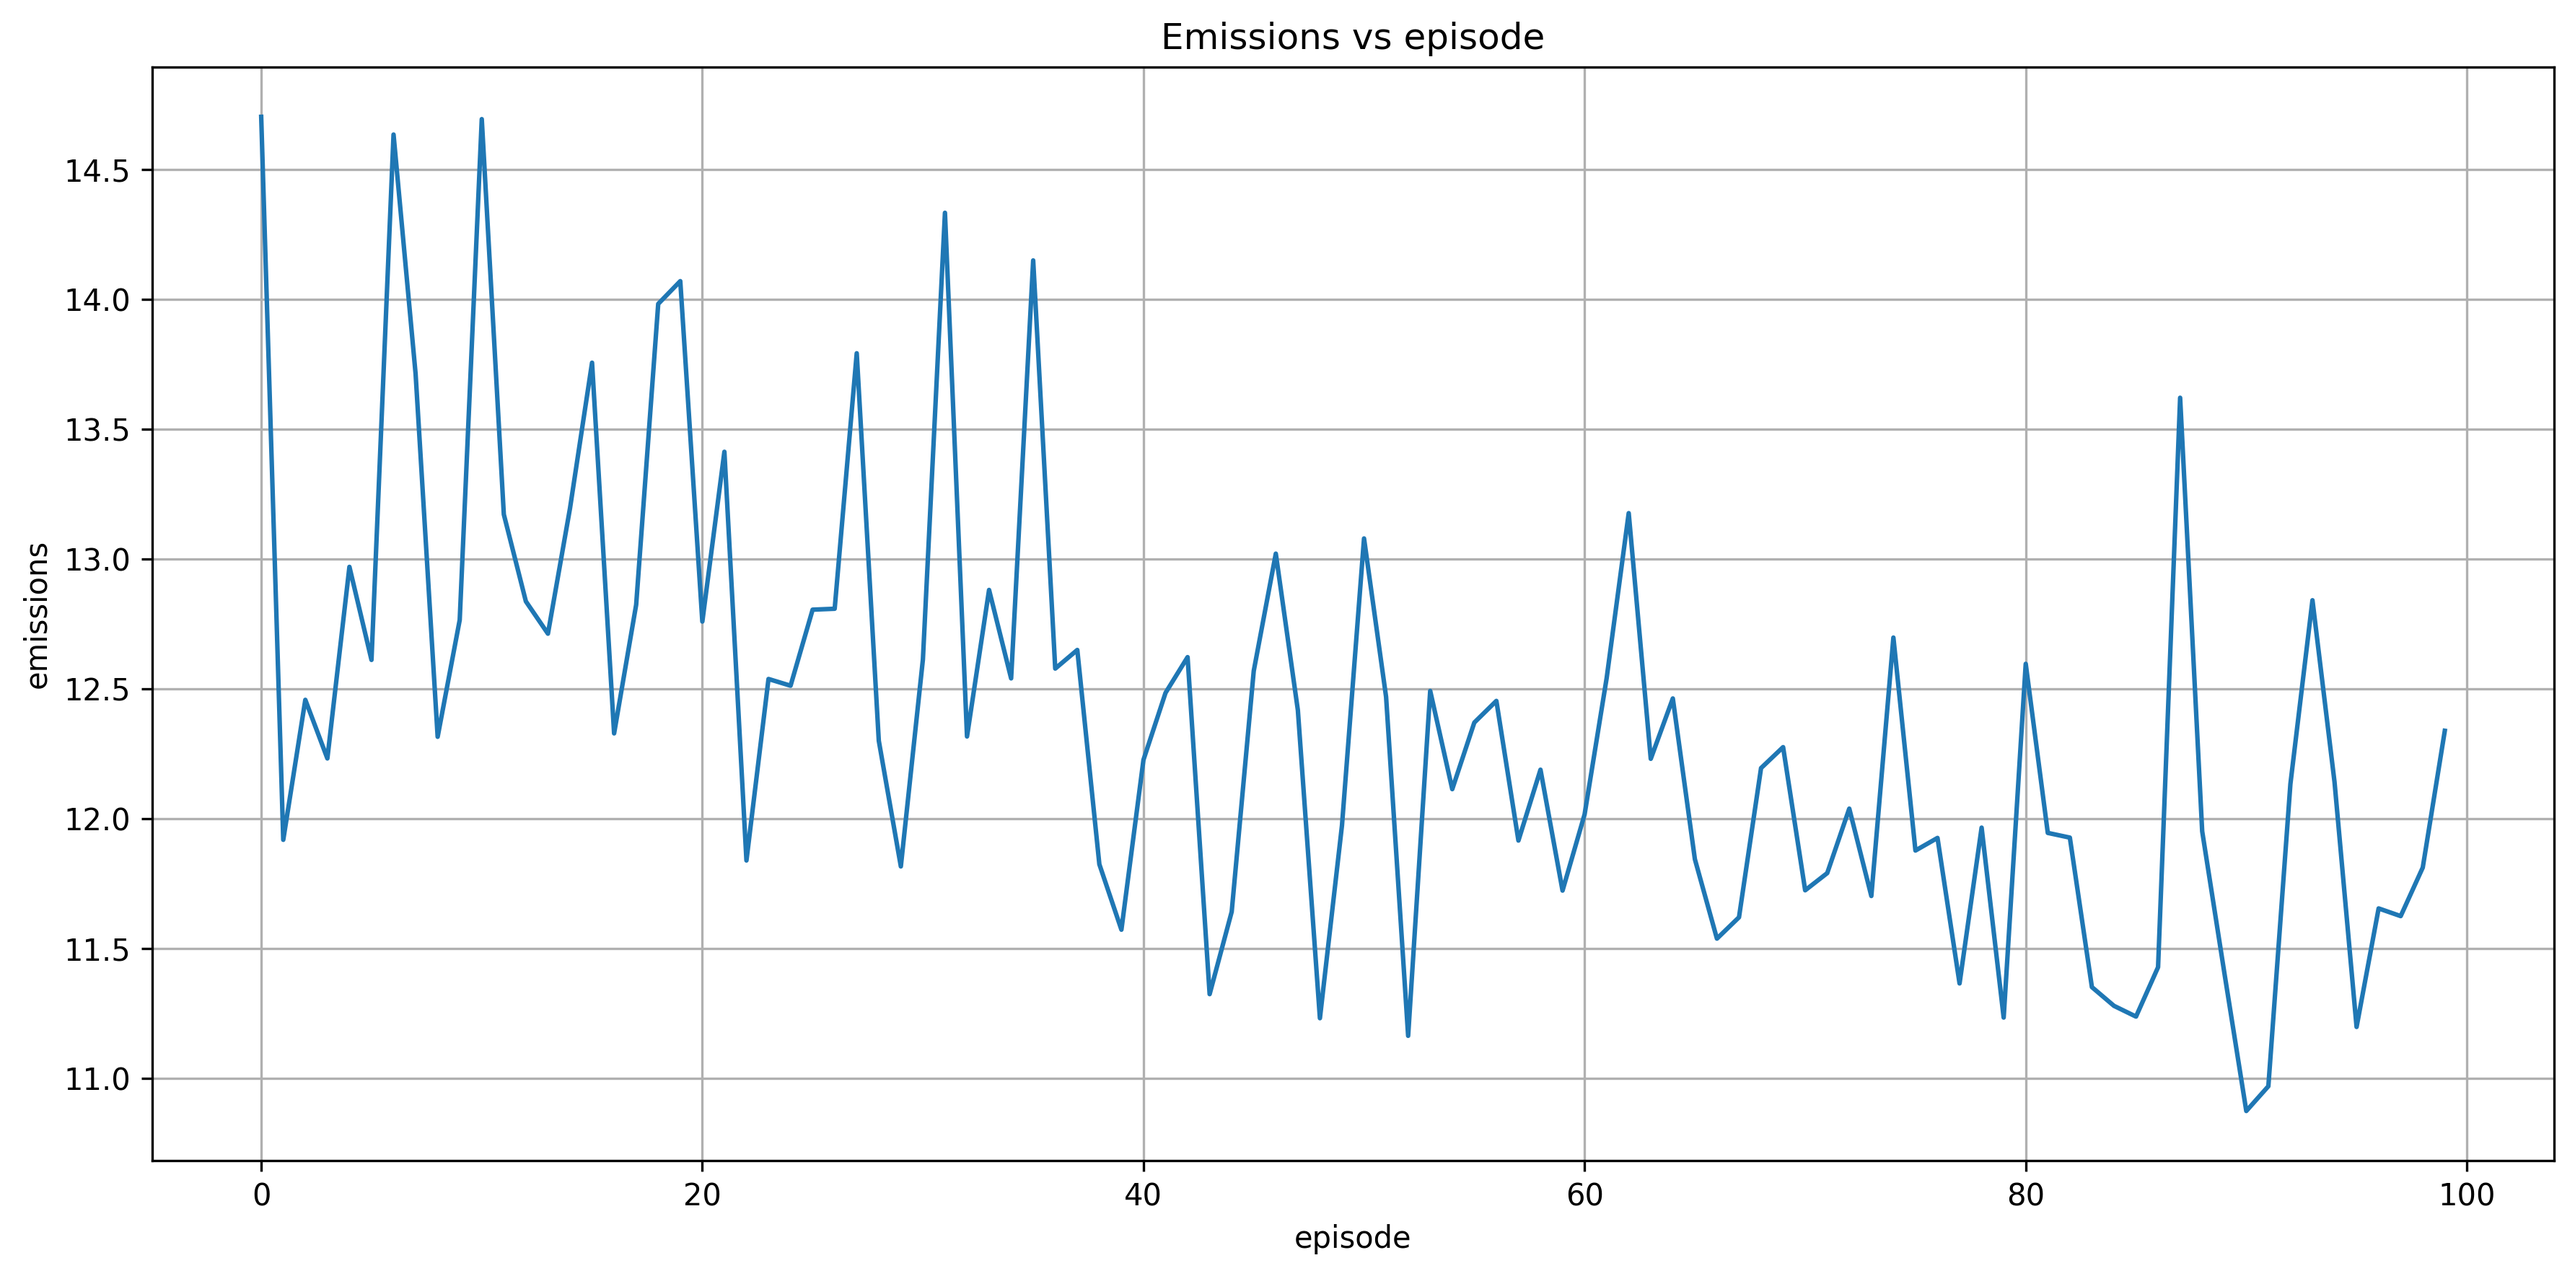
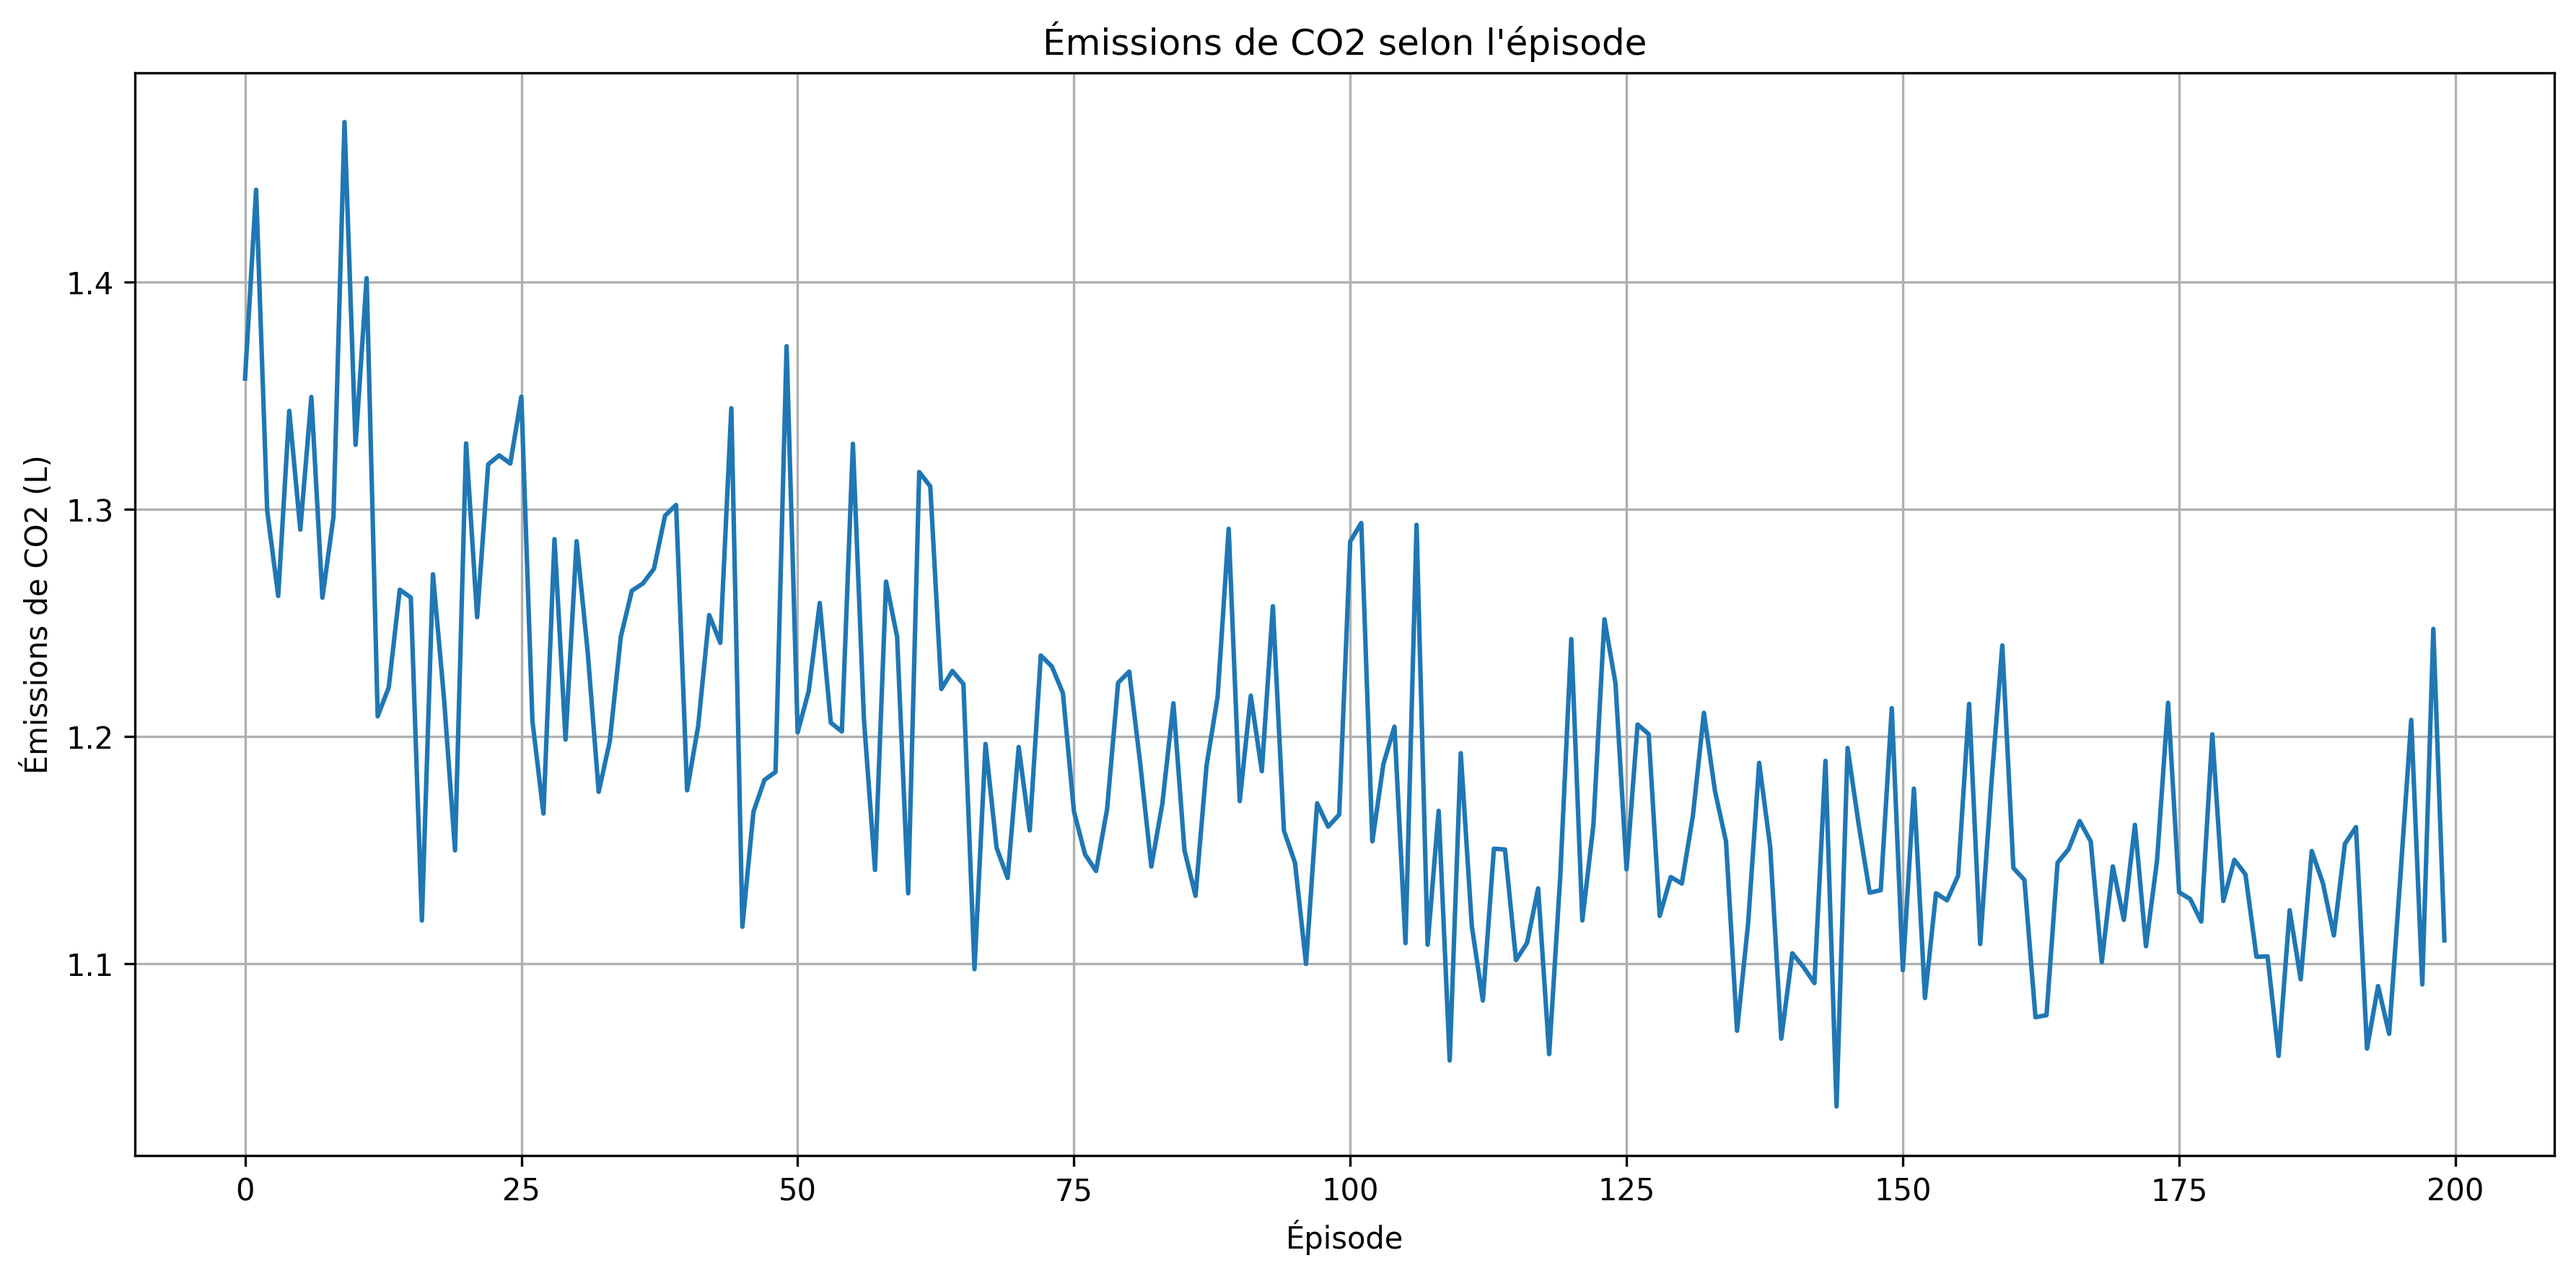
fix softlock (je crois)

diff --git a/simauto/intersection.py b/simauto/intersection.py
@@ -88,7 +88,7 @@ class IntersectionEnv(gym.Env):
 
         self.mean_waits = []
 
-        self.episode_end_threshold = 2000 # in numbers of cars passed
+        self.episode_end_threshold = 130 # in numbers of cars passed
 
         self.action_space = spaces.Discrete(6)
         self.observation_space = gym.spaces.Dict({
@@ -248,11 +248,27 @@ class IntersectionEnv(gym.Env):
         max_wait = max(wait_times) if wait_times else 0.0
         emergency_penalty = -0.55 * max(0.0, max_wait - 300.0) #**2 #si ca marche encore pas
 
+        cars_in_green_lane = 0
+        approaching_cars = 0
+        for car in self.sim.cars:
+            if car.road is None:
+                continue
+
+            if self.sim.approach_road(car.road.direction.opposite) != car.road:
+                continue
+
+            approaching_cars += 1
+
+            if self.sim.signal_at(car.road.direction.opposite) != TrafficSignal.Halt:
+                cars_in_green_lane += 1
+
+        negative_pressure_penalty = -np.log(1+np.exp(approaching_cars - cars_in_green_lane)) 
         reward = (
             wait_penalty
             + fairness_penalty
             + emergency_penalty
             + car_count_penalty
+            + negative_pressure_penalty
         )
 
         self.mean_waits.append(total_wait/len(wait_times))
@@ -268,7 +284,7 @@ class IntersectionEnv(gym.Env):
         self.sim.phase = new_phase
 
         # Spawn new cars
-        if self._passed_cars < self.episode_end_threshold and random.random() < 0.10:  # 10% chance per step to spawn a group of cars
+        if random.random() < 0.10:  # 10% chance per step to spawn a group of cars
             common_direction = random.choice(list(Direction))
             for _ in range(0, random.randint(4, 8)):
                 if random.randint(0,10) < 8:

diff --git a/simauto/test.py b/simauto/test.py
@@ -5,7 +5,7 @@ import simauto.register_env  # must import to register the env
 import torch as T
 import numpy as np
 from dqn import *
-from agent import DQNAgent, state_tensor
+from simauto.agent import DQNAgent, state_tensor
 
 
 device = T.device("cuda" if T.cuda.is_available() else "cpu")
@@ -17,7 +17,7 @@ agent = DQNAgent(input_dim, output_dim)
 #Hyperparameters
 BATCH_SIZE = 32
 GAMMA = 0.97
-EPSILON_DECAY = 0.9987
+EPSILON_DECAY = 0.995
 MIN_EPSILON = 0.005
 TARGET_UPDATE_FREQ = 1000
 episode_rewards = []
@@ -25,7 +25,7 @@ episode_epsilons = []
 episode_mean_wait = []
 episode_emissions = []
 total_steps = 0
-n_episode = 1500
+n_episode = 200
 for episode in range(n_episode):
     obs, _ = env.reset()
     state = state_tensor(obs)

diff --git a/simauto/demo.py b/simauto/demo.py
@@ -1,7 +1,7 @@
 import gymnasium as gym
 import simauto.register_env
 from dqn import *  # This should include your DeepQNetwork and ReplayBuffer if needed
-from agent import DQNAgent, state_tensor
+from simauto.agent import DQNAgent, state_tensor
 
 device = T.device("cuda" if T.cuda.is_available() else "cpu")
 
@@ -20,12 +20,16 @@ obs, _ = env.reset()
 state = state_tensor(obs)
 done = False
 
+step = 0
+action = 0
 while not done:
-    action = agent.act(state)
+    if step % 40 == 0:
+        action = agent.act(state)
     next_obs, reward, terminated, truncated, _ = env.step(action)
     state = state_tensor(next_obs)
     env.render()
 
-    #done = terminated or truncated
+    done = truncated
+    step += 1
 
 env.close()
